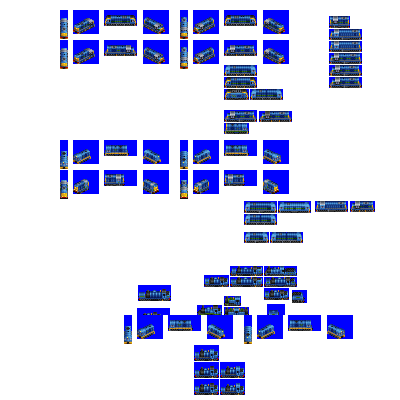
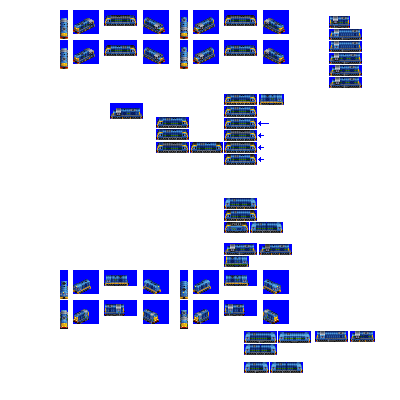
Change: more WIP on gen 4 pony NG diesels

diff --git a/src/vehicles/pony/seven_star.py b/src/vehicles/pony/seven_star.py
@@ -17,7 +17,7 @@ def main(roster_id, **kwargs):
         extended_vehicle_life=True,  # extended vehicle life for all this generation of NG eh
         random_reverse=True,
         # note that livery names are metadata only and can repeat for different spriterows
-        #additional_liveries=["INDUSTRIAL_YELLOW"],
+        additional_liveries=["SWOOSH"],
         sprites_complete=False,
     )
 
